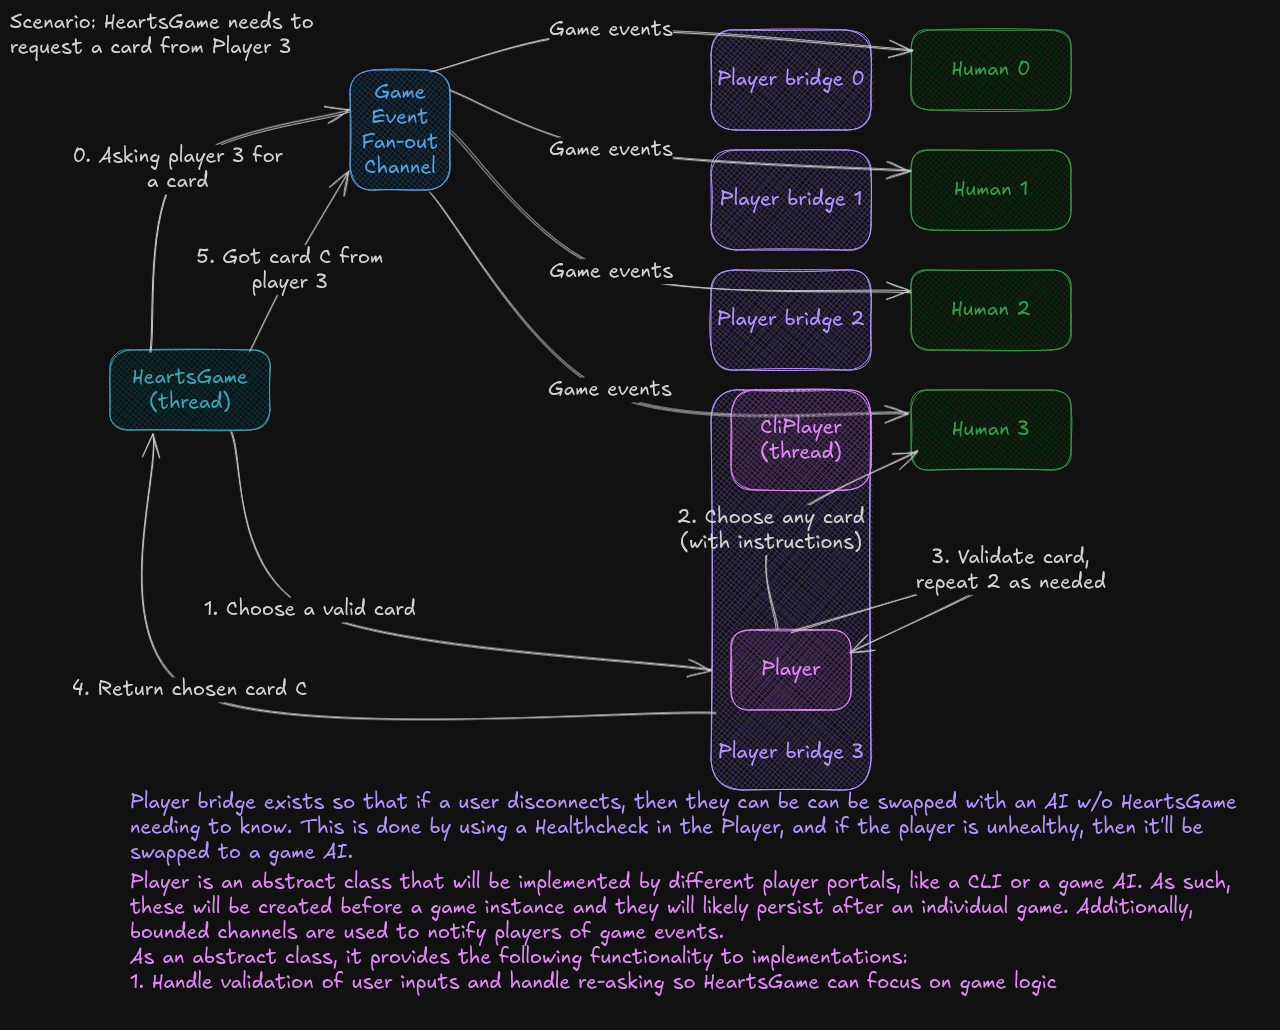
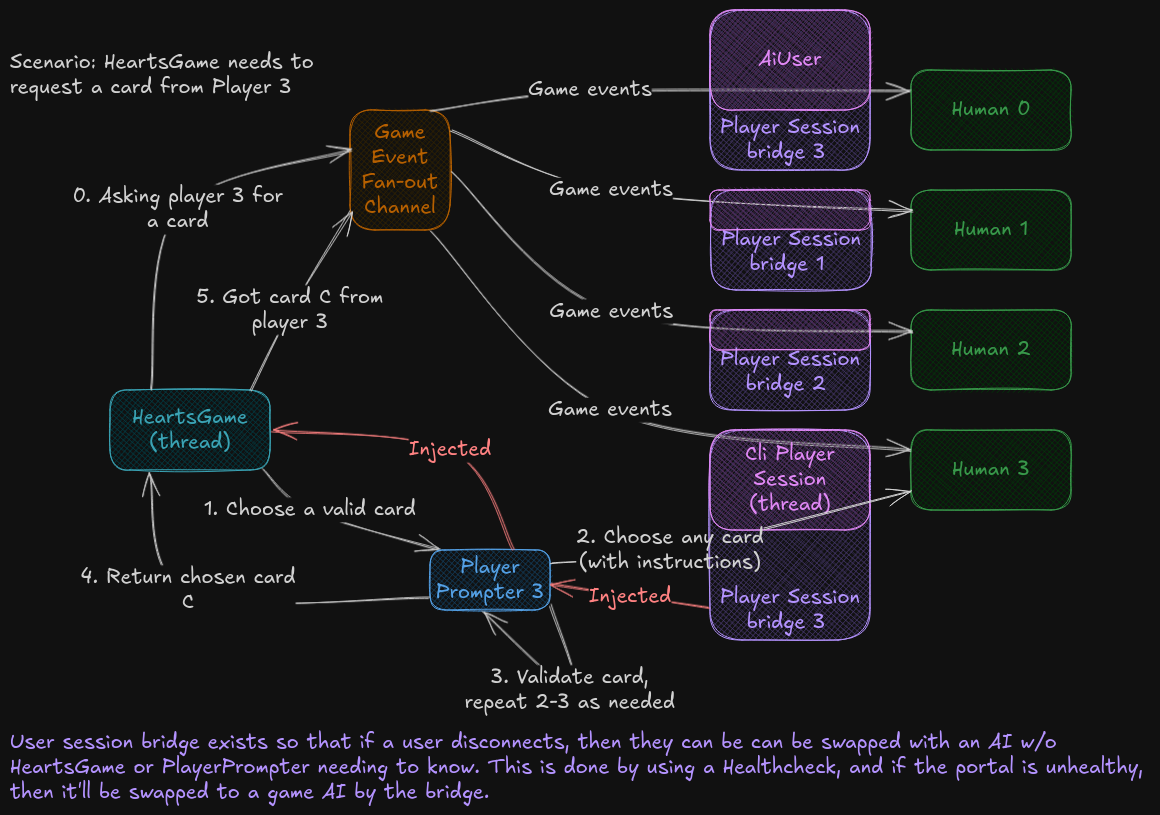
update plan

diff --git a/src/Library/Games/Hearts/Hearts.cs b/src/Library/Games/Hearts/Hearts.cs
@@ -4,14 +4,12 @@ using Microsoft.Extensions.Logging;
 
 namespace CoolCardGames.Library.Games.Hearts;
 
-/* TODO: impl Bridge pattern (see diagram in readme)
-   - make abstract Player
-   - make PlayerBridge
-   - rm HeartsPlayer
-   - mv CliUser to CliPlayer
-   - mv AiUse to AiPlayer
-   - add healthcheck to Player so bridge can swap as needed
-   - update xmldocs
+/* TODO: update per new data flow diagram
+ * - [ ] Rename Player to PlayerPrompter
+ * - [ ] Rename UserSession to PlayerSession
+ * - [ ] Make PlayerSession abstract
+ *     - [ ] Add abstract HealthCheck
+ * - [ ] Make PlayerSessionBridge
  */
 
 // TODO: replace GameEventHandler w/ Channel
